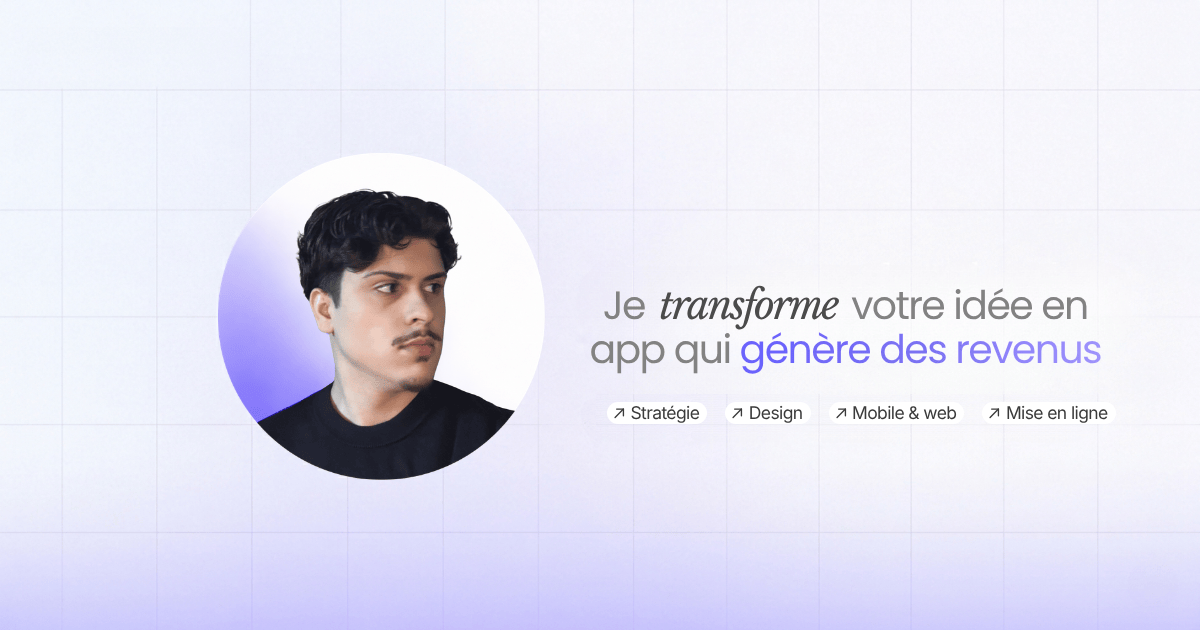
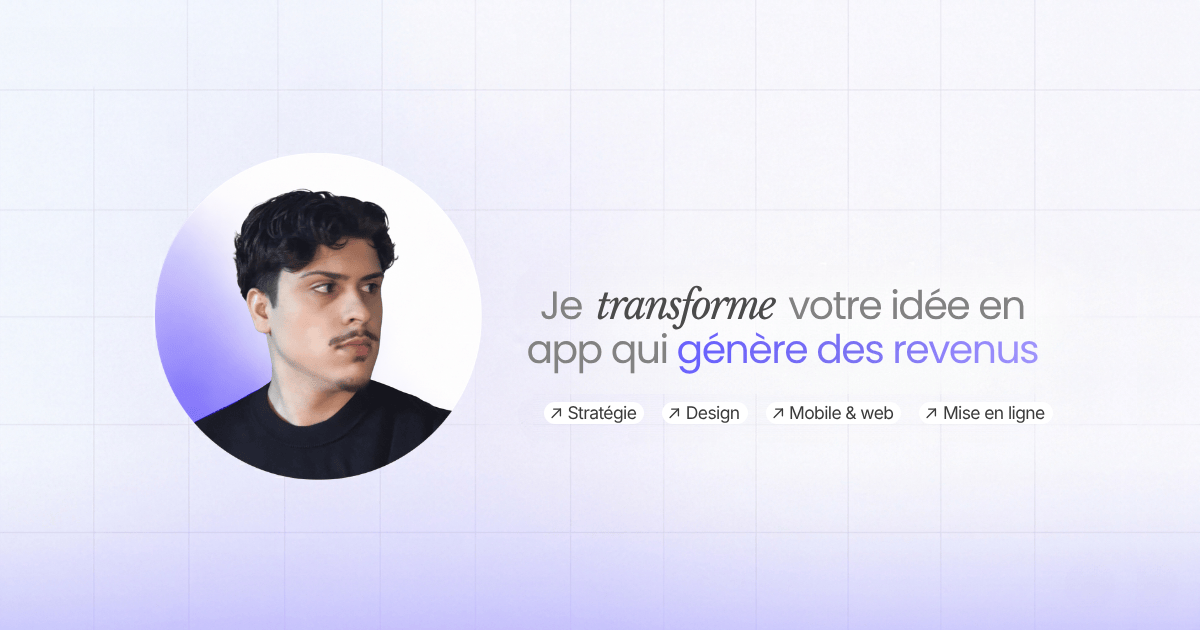
Image de partage par défaut : contenu centré (155 px de marge de chaque côté)
Claude-Session: https://claude.ai/code/session_01PSzDaerYfzq1odvAjCNAR4

Changed region(s): [[0.1233, 0.3016, 0.4317, 0.7841], [0.4317, 0.4524, 0.925, 0.6032], [0.4625, 0.6333, 0.925, 0.6635]]

diff --git a/scripts/og/accueil-og.html b/scripts/og/accueil-og.html
@@ -10,7 +10,7 @@
 *{margin:0;padding:0;box-sizing:border-box}
 html,body{width:1200px;height:630px;overflow:hidden}
 body{background:url('accueil-og-fond.png') 0 0/1200px 630px no-repeat;position:relative}
-.chips{position:absolute;left:607px;top:402px;display:flex;gap:18px}
+.chips{position:absolute;left:544px;top:402px;display:flex;gap:18px}
 .chip{display:inline-flex;align-items:center;gap:5px;height:22px;padding:0 8px 0 6px;border-radius:11px;background:#fff;font-family:'Bulle',sans-serif;font-weight:400;font-size:17.5px;letter-spacing:-0.035em;color:#3b3b3b;line-height:1}
 .chip svg{width:12.5px;height:12.5px;flex:none}
 </style></head><body><div class="chips">
